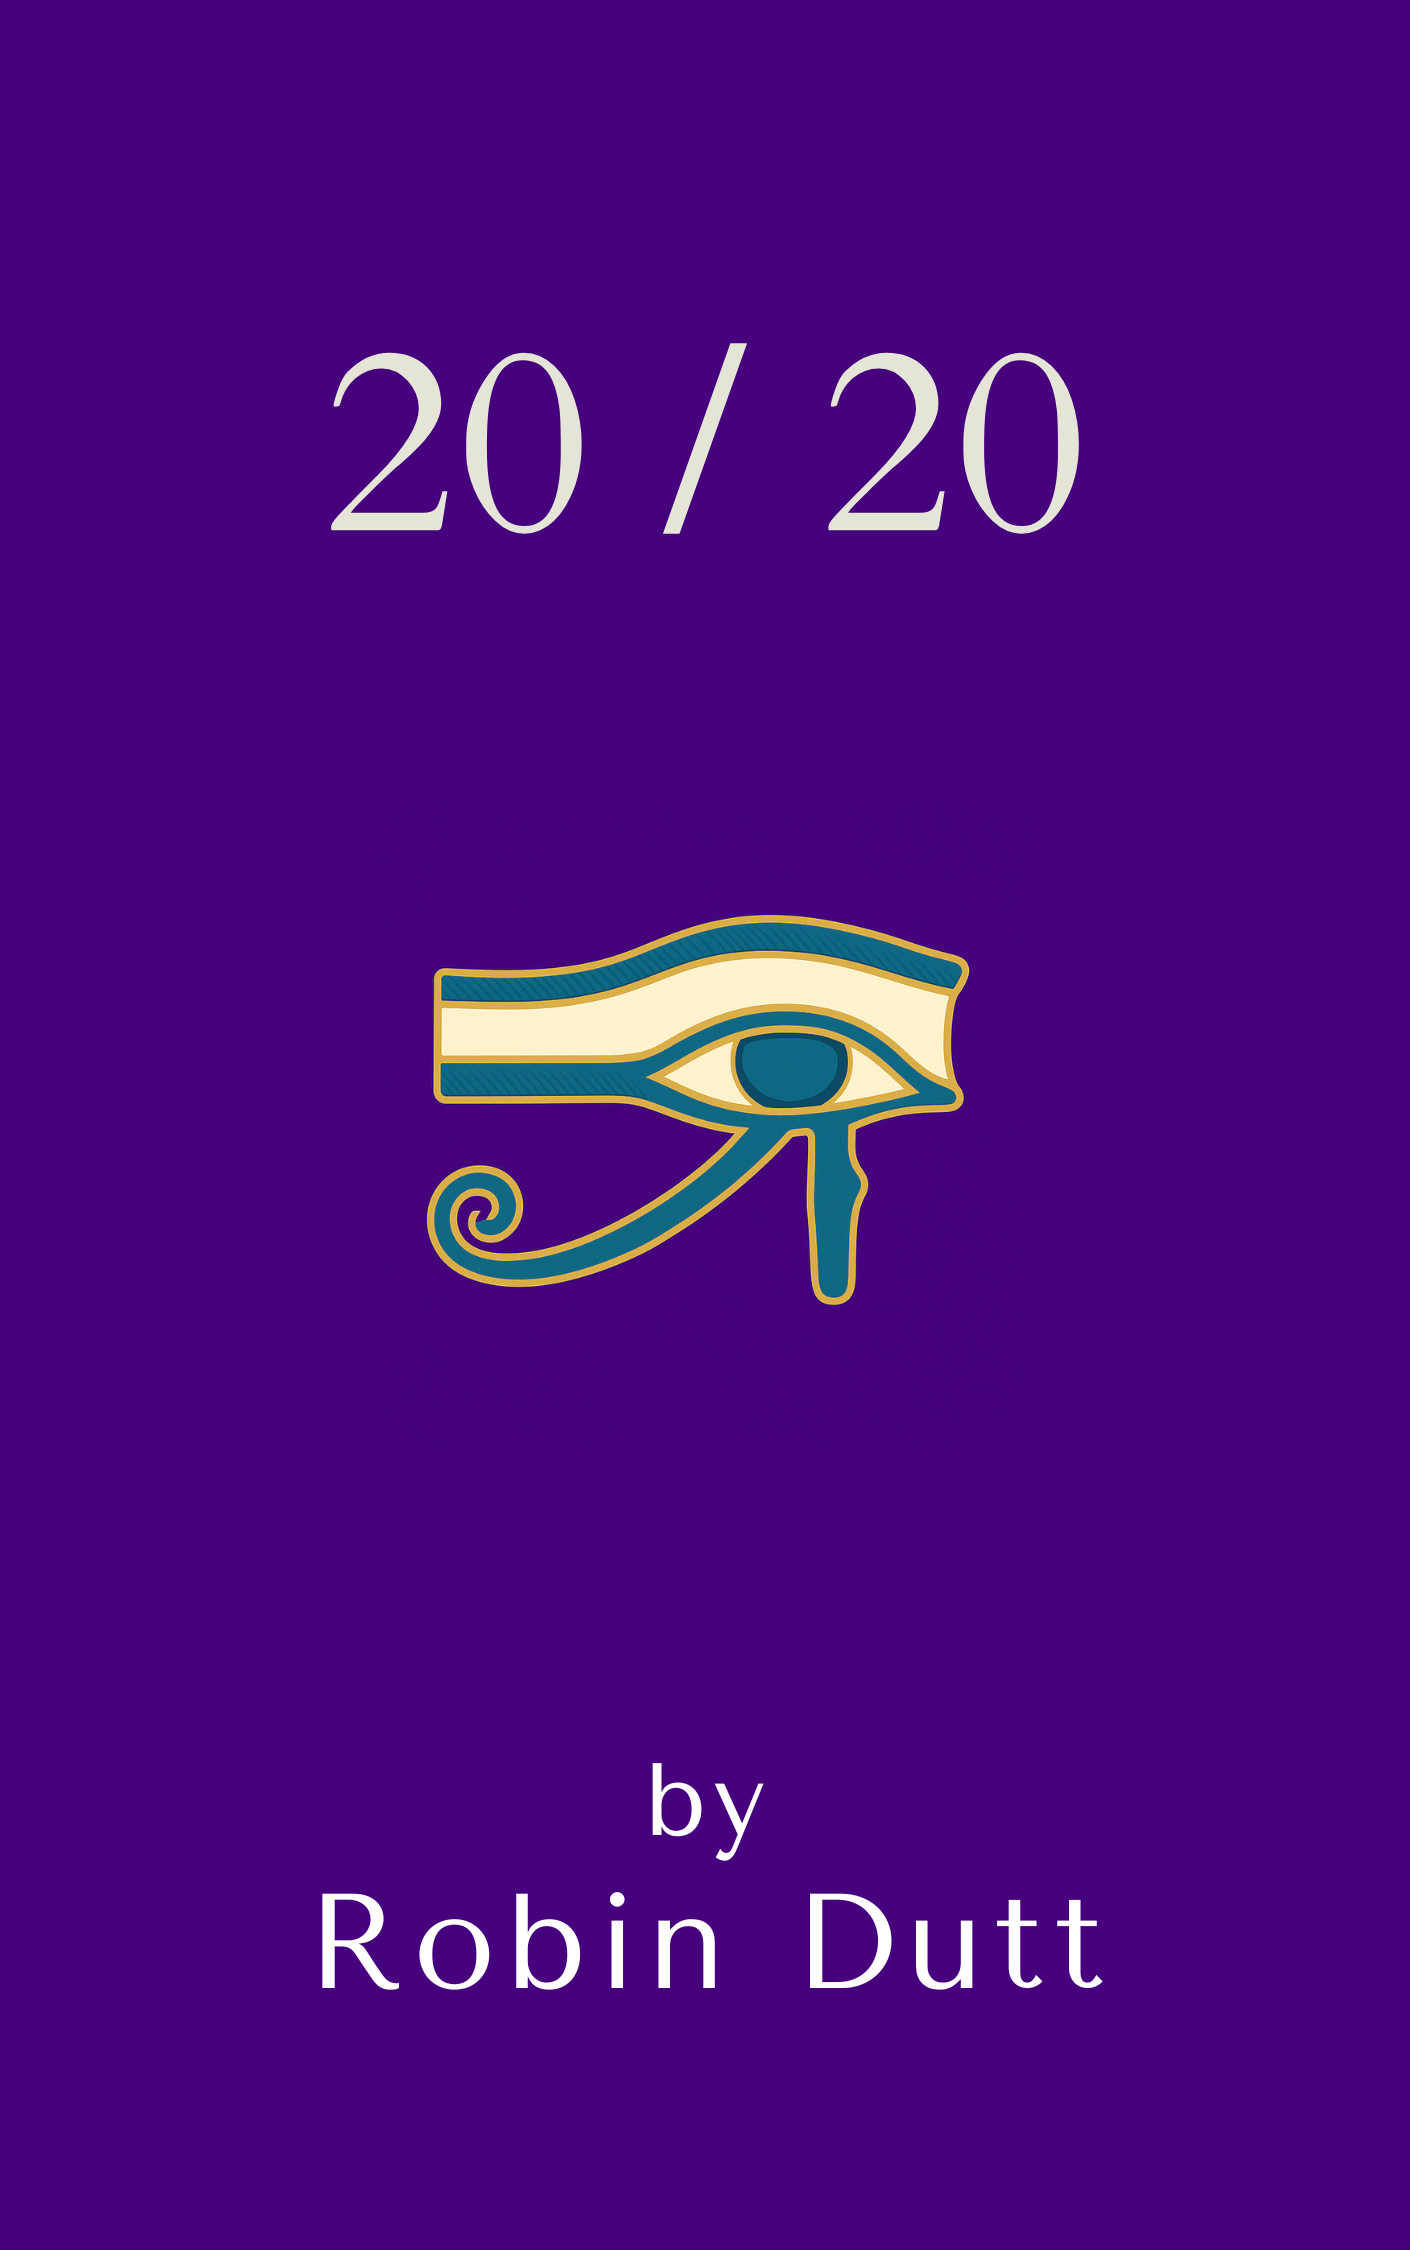
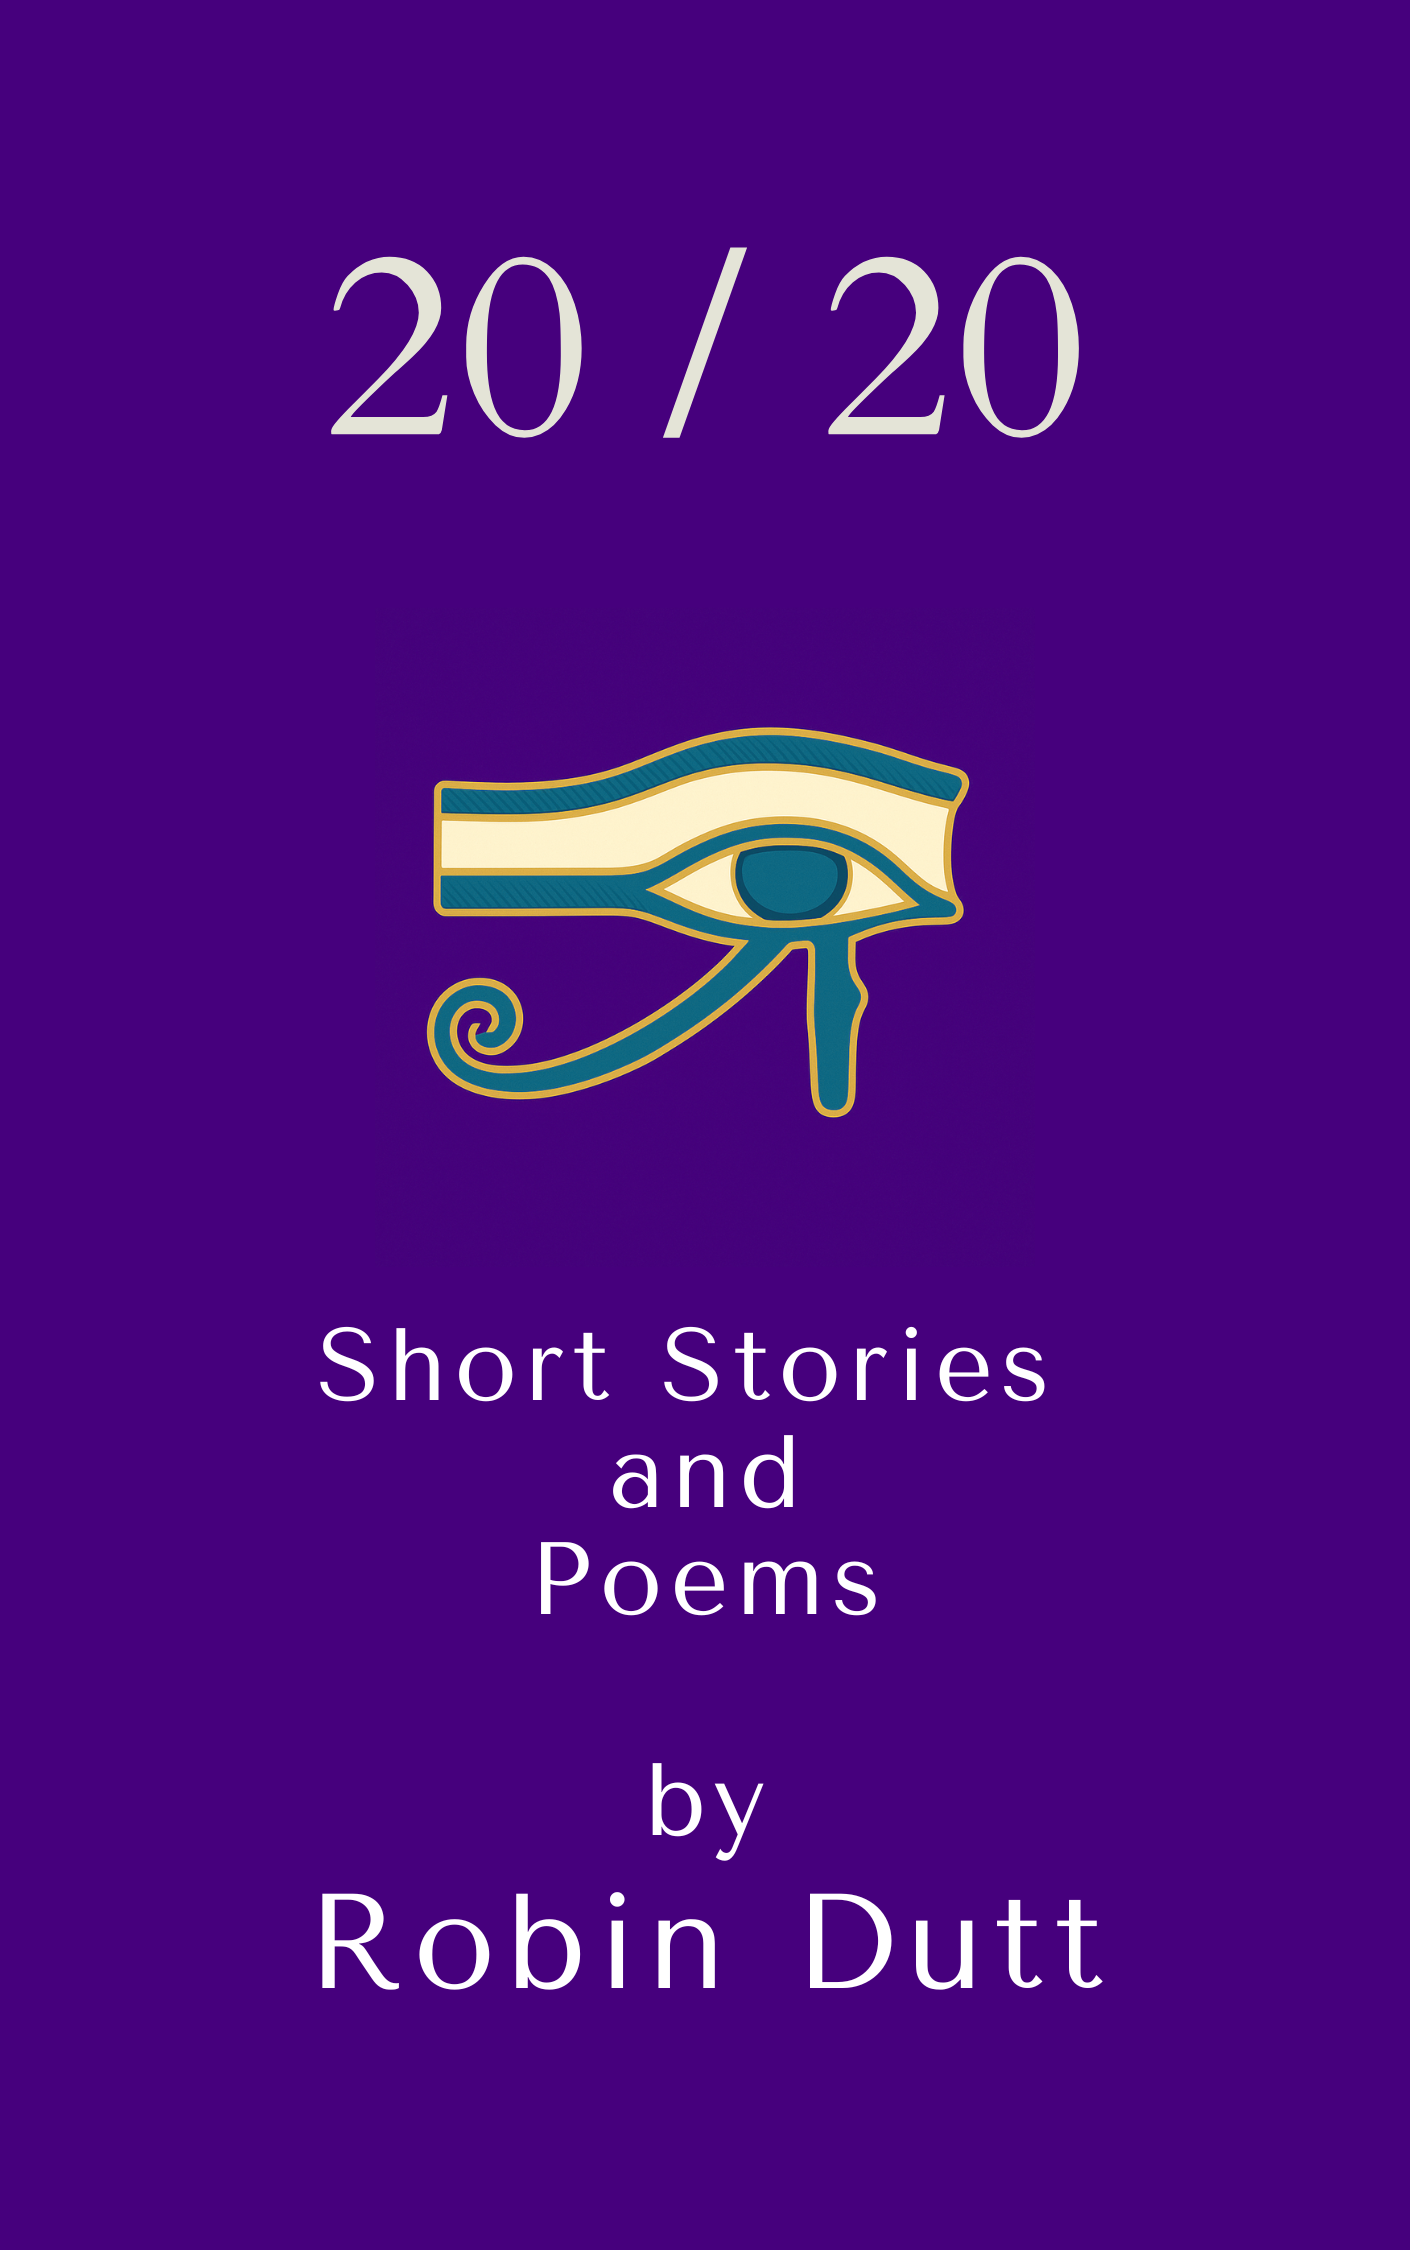
submit
submit

diff --git a/dandemonium2/2020.html b/dandemonium2/2020.html
@@ -430,7 +430,7 @@ footer p {
       <p>Profound yet playful, <strong>20 / 20</strong> is an invitation to journey inward—whether through a remembered bedtime story or a fleeting moment on a city street.</p>
 
     <div>
-      <p class="notify-line">Join the dispatch and tell me when 20 / 20 becomes available.</p>
+      <p class="notify-line">Join the dispatch and tell me when 20 / 20 , short stoires and poems becomes available.</p>
       <div class="ml-embedded" data-form="6F71j4"></div>
     </div>
 
